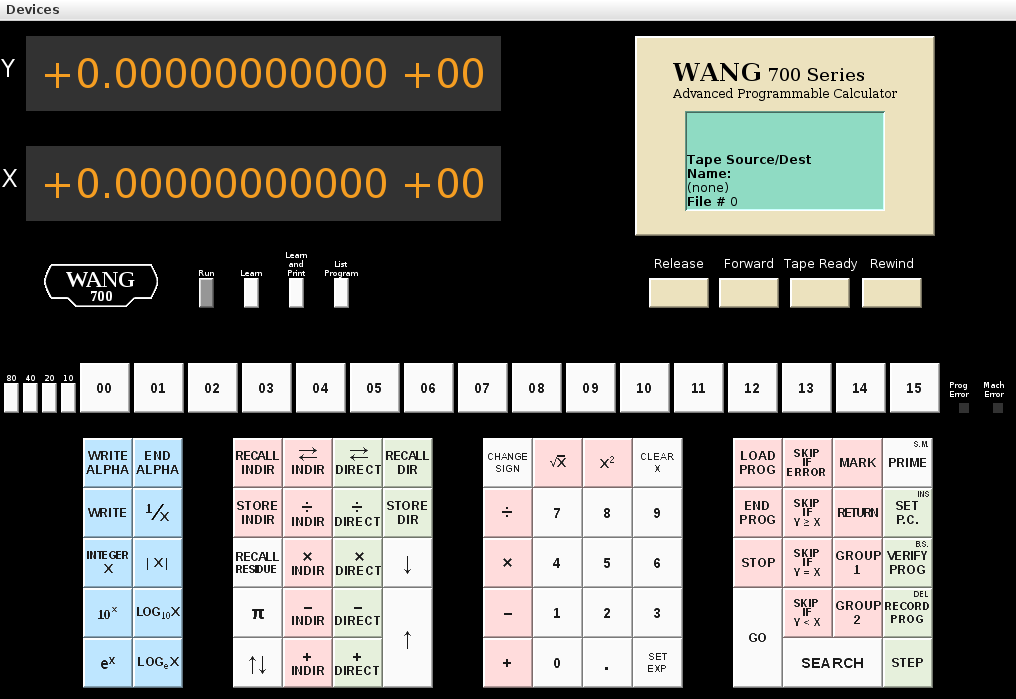
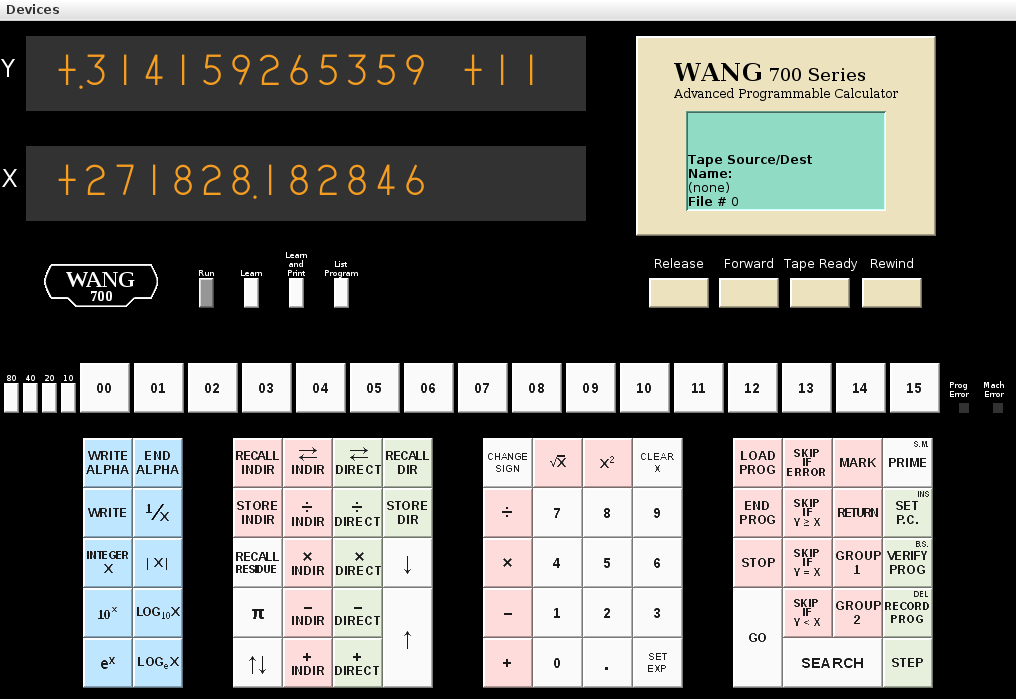
add nixie font and cleanup display

diff --git a/w700-sim/w700_fe.java b/w700-sim/w700_fe.java
@@ -1,5 +1,5 @@
 // Copyright (c) 2011 Douglas Miller
-// $Id: w700_fe.java,v 1.17 2011/11/07 12:58:52 drmiller Exp $
+// $Id: w700_fe.java,v 1.18 2011/11/09 17:45:00 drmiller Exp $
 
 import java.awt.*;
 import java.awt.event.*;
@@ -13,7 +13,7 @@ import javax.print.attribute.*;
 import javax.print.attribute.standard.*;
 
 class _Key {
-	final String ident = "$Id: w700_fe.java,v 1.17 2011/11/07 12:58:52 drmiller Exp $";
+	final String ident = "$Id: w700_fe.java,v 1.18 2011/11/09 17:45:00 drmiller Exp $";
 
 	static final Color orange1 = new Color(255, 210, 180, 255);
 	static final Color blue1 = new Color(190, 230, 255, 255);
@@ -126,7 +126,7 @@ class FEexit extends Thread {
 
 public class w700_fe
 {
-	final String ident = "$Id: w700_fe.java,v 1.17 2011/11/07 12:58:52 drmiller Exp $";
+	final String ident = "$Id: w700_fe.java,v 1.18 2011/11/09 17:45:00 drmiller Exp $";
 
 	public static File _dir;
 	public static java.text.SimpleDateFormat _timestamp =
@@ -258,7 +258,7 @@ public class w700_fe
 		front_end.add(dspx);
 
 		pan = new JPanel();
-		pan.setPreferredSize(new Dimension(50, 25));
+		pan.setPreferredSize(new Dimension(40, 25));
 		pan.setOpaque(false);
 		s.gridx = 2;
 		s.gridy = 0;
@@ -285,11 +285,21 @@ public class w700_fe
 		gridbag.setConstraints(pan, s);
 		front_end.add(pan);
 
+		pan = new JPanel();
+		pan.setPreferredSize(new Dimension(1, 25));
+		pan.setOpaque(false);
+		s.gridx = 4;
+		s.gridy = 0;
+		s.gridheight = 3;
+		s.gridwidth = 1;
+		gridbag.setConstraints(pan, s);
+		front_end.add(pan);
+
 		Wang700_Keyboard kbd = new Wang700_Keyboard(fout, dspx.pe, dspx.me, tape);
 		s.gridx = 0;
 		s.gridy = 4;
 		s.gridheight = 1;
-		s.gridwidth = 4;
+		s.gridwidth = 5;
 		gridbag.setConstraints(kbd, s);
 		front_end.add(kbd);
 		front_end.addKeyListener(kbd);
@@ -321,7 +331,7 @@ public class w700_fe
 }
 
 class Wang700_ProgErr extends JComponent {
-	final String ident = "$Id: w700_fe.java,v 1.17 2011/11/07 12:58:52 drmiller Exp $";
+	final String ident = "$Id: w700_fe.java,v 1.18 2011/11/09 17:45:00 drmiller Exp $";
 	static final long serialVersionUID = 311457692038L;
 
 	GridBagLayout gridbag = new GridBagLayout();
@@ -403,7 +413,7 @@ class Wang700_SimError
 class Wang700_SimInput
 		implements Runnable, WindowListener, ActionListener
 {
-	final String ident = "$Id: w700_fe.java,v 1.17 2011/11/07 12:58:52 drmiller Exp $";
+	final String ident = "$Id: w700_fe.java,v 1.18 2011/11/09 17:45:00 drmiller Exp $";
 	Wang700_Display _dspx;
 	Wang700_Display _dspy;
 	Wang700_Tape _tape;
@@ -516,7 +526,7 @@ class Wang700_SimInput
 
 class Wang700_Tape extends JComponent
 {
-	final String ident = "$Id: w700_fe.java,v 1.17 2011/11/07 12:58:52 drmiller Exp $";
+	final String ident = "$Id: w700_fe.java,v 1.18 2011/11/09 17:45:00 drmiller Exp $";
 	static final long serialVersionUID = 311457692039L;
 	java.io.RandomAccessFile _tf;
 	java.io.OutputStream _fout;
@@ -1048,7 +1058,7 @@ class SuffFileChooser extends JFileChooser {
 class Wang700_Model711
 	implements ActionListener, ComponentListener
 {
-	final String ident = "$Id: w700_fe.java,v 1.17 2011/11/07 12:58:52 drmiller Exp $";
+	final String ident = "$Id: w700_fe.java,v 1.18 2011/11/09 17:45:00 drmiller Exp $";
 	private byte[] cn24_xlate;
 	private String[] cn24_spcl;
 
@@ -1638,7 +1648,7 @@ class Wang700_Model711
 class Wang700_Display extends JComponent
 		implements ActionListener
 {
-	final String ident = "$Id: w700_fe.java,v 1.17 2011/11/07 12:58:52 drmiller Exp $";
+	final String ident = "$Id: w700_fe.java,v 1.18 2011/11/09 17:45:00 drmiller Exp $";
 	static final long serialVersionUID = 311457692037L;
 	final byte[] sign_chr = new byte[]{'+','-','+','-','+','-','+','-','+','-','+','-','+','-','+',' '};
 	final byte[] disp_chr = new byte[]{'0','1','2','3','4','5','6','7','8','9','A','B','C','D','E',' '};
@@ -1693,14 +1703,14 @@ class Wang700_Display extends JComponent
 		}
 
 		setLayout(new FlowLayout());
-		disp = new JLabel(blank, SwingConstants.CENTER);
+		disp = new JLabel(blank, SwingConstants.LEFT);
 		disp.setForeground(_Key.neon);
 		disp.setBackground(_Key.empty);
 		disp.setOpaque(true);
 		Font font = null;
 		java.io.InputStream ttf = null;
 		ttf = Wang700_Display.class.getResourceAsStream(
-							"fonts/Wang700Display.ttf");
+							"fonts/NixieZM1336.ttf");
 		if (ttf != null) {
 			try {
 				font = Font.createFont(Font.TRUETYPE_FONT, ttf);
@@ -1714,7 +1724,7 @@ class Wang700_Display extends JComponent
 			//font = new Font("Sans-serif", Font.PLAIN, 40);
 			font = new Font("Monospaced", Font.PLAIN, 40);
 		}
-		disp.setPreferredSize(new Dimension(475, 75));
+		disp.setPreferredSize(new Dimension(560, 75));
 		disp.setFont(font);
 
 		add(disp);
@@ -1813,7 +1823,7 @@ class Wang700_Display extends JComponent
 			s = new String(disp_a);
 //System.err.println("disp \""+s+"\" "+((b[1] >> 4) & 0x0f)+" "+((b[0] >> 4) & 0x0f)+" "+(b[0] & 0x0f));
 		}
-		disp.setText(s);
+		disp.setText(" "+s);
 		repaint();
 	}
 }
@@ -1821,7 +1831,7 @@ class Wang700_Display extends JComponent
 class Wang700_Keyboard extends JComponent
 	implements ActionListener, KeyListener, WindowListener, ComponentListener
 {
-	final String ident = "$Id: w700_fe.java,v 1.17 2011/11/07 12:58:52 drmiller Exp $";
+	final String ident = "$Id: w700_fe.java,v 1.18 2011/11/09 17:45:00 drmiller Exp $";
 	static final long serialVersionUID = 31145769203L;
 	static final int num_kbds = 3;
 
@@ -2245,7 +2255,7 @@ class Wang700_Keyboard extends JComponent
 
 class Wang700_Keyboards extends JComponent
 {
-	final String ident = "$Id: w700_fe.java,v 1.17 2011/11/07 12:58:52 drmiller Exp $";
+	final String ident = "$Id: w700_fe.java,v 1.18 2011/11/09 17:45:00 drmiller Exp $";
 	static final long serialVersionUID = 311457692034L;
 	public Wang700_Keyboards() { }
 
@@ -2407,7 +2417,7 @@ class Wang700_Keyboards extends JComponent
 
 class Wang700_Keyboard_main extends Wang700_Keyboards
 {
-	final String ident = "$Id: w700_fe.java,v 1.17 2011/11/07 12:58:52 drmiller Exp $";
+	final String ident = "$Id: w700_fe.java,v 1.18 2011/11/09 17:45:00 drmiller Exp $";
 	static final long serialVersionUID = 311457692031L;
 	static final int num_keys = 67;
 
@@ -2632,7 +2642,7 @@ class Wang700_Keyboard_main extends Wang700_Keyboards
 
 class Wang700_Keyboard_meta extends Wang700_Keyboards
 {
-	final String ident = "$Id: w700_fe.java,v 1.17 2011/11/07 12:58:52 drmiller Exp $";
+	final String ident = "$Id: w700_fe.java,v 1.18 2011/11/09 17:45:00 drmiller Exp $";
 	static final long serialVersionUID = 311457692032L;
 	static final int num_keys = 20;
 
@@ -2673,6 +2683,14 @@ class Wang700_Keyboard_meta extends Wang700_Keyboards
 		addPushButton(c, 2, 1, 3, 1,"10","",_Key.white2, false,
 			new _Key(_Key.white1, _Key.GROUP(5,_Key.META_PRE(15,1))));
 		_col += 4;
+
+//		c.gridx = _col;
+//		pan = new JPanel();
+//		pan.setPreferredSize(new Dimension(1, 50));
+//		pan.setOpaque(false);
+//		gridbag.setConstraints(pan, c);
+//		add(pan);
+//		++_col;
 
 		c.anchor = GridBagConstraints.SOUTH;
 		addButton(c,1, -2, 0, 0, "icons/k00.gif",
@@ -2734,7 +2752,7 @@ class Wang700_Keyboard_meta extends Wang700_Keyboards
 
 class Wang700_Keyboard_stick extends Wang700_Keyboards
 {
-	final String ident = "$Id: w700_fe.java,v 1.17 2011/11/07 12:58:52 drmiller Exp $";
+	final String ident = "$Id: w700_fe.java,v 1.18 2011/11/09 17:45:00 drmiller Exp $";
 	static final long serialVersionUID = 311457692033L;
 	static final int num_keys = 22;
 
